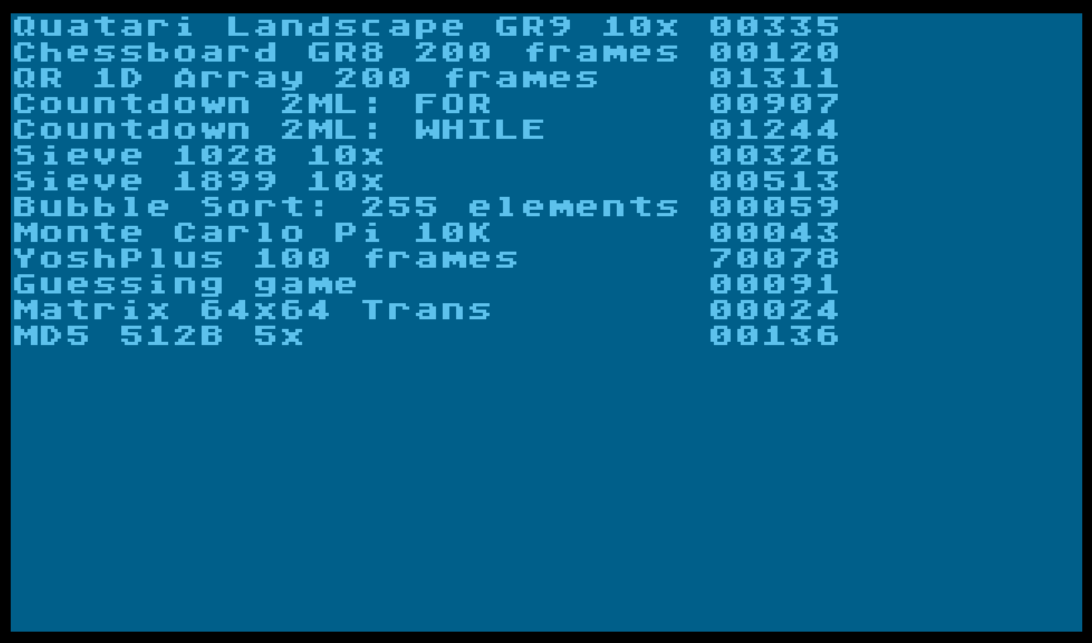
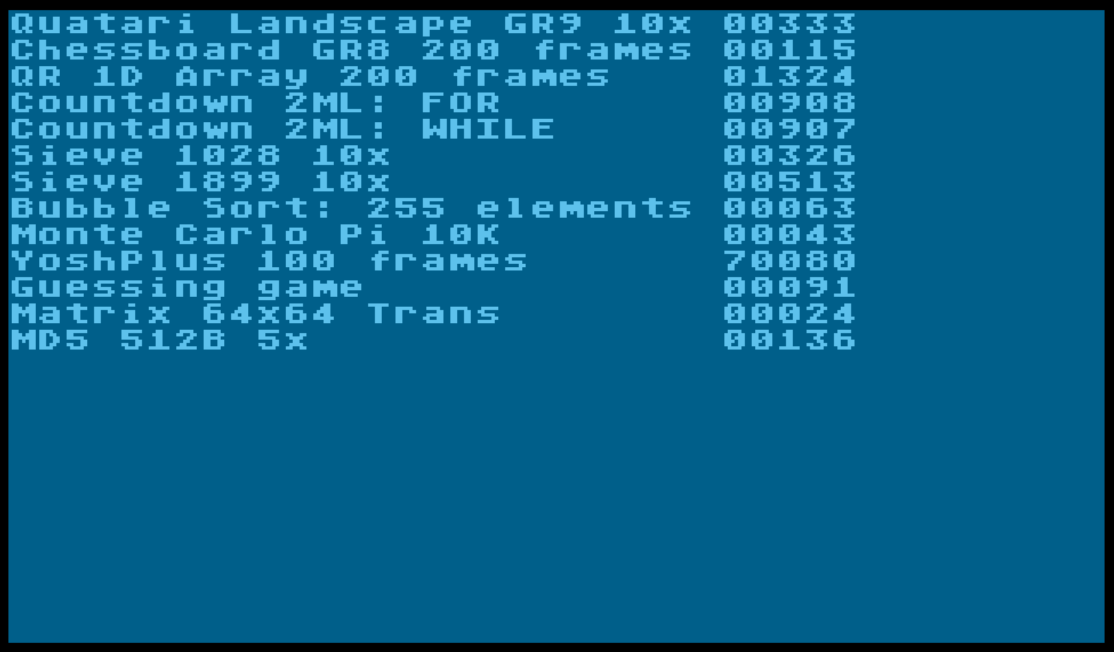
Changed while to do/while which improves the times. maybe unjustly.

Changed region(s): [[0.0, 0.0, 0.9963, 0.5599], [0.0, 0.9642, 0.9963, 0.9953], [0.3425, 0.4666, 0.467, 0.4977]]

diff --git a/src/countdownWhile.c b/src/countdownWhile.c
@@ -16,38 +16,32 @@ void benchmarkCountdownWhile() {
 	char *c7 = counterLms + 0x27;
 
 	*c1 = 1;
-	*c2 = 9;
-	*c3 = 9;
-	*c4 = 9;
-	*c5 = 9;
-	*c6 = 9;
-	*c7 = 9;
-	
-	while (*c1 != 0xff) {
+	do {
 		*c2 = 9;
-		while (*c2 != 0xff) {
+		do {
 			*c3 = 9;
-			while (*c3 != 0xff) {
+			do {
 				*c4 = 9;
-				while (*c4 != 0xff) {
+				do {
 					*c5 = 9;
-					while (*c5 != 0xff) {
+					do {
 						*c6 = 9;
-						while (*c6 != 0xff) {
+						do {
 							*c7 = 9;
-							while (*c7 != 0xff) {
+							do {
 								(*c7)--;
-							}
+							} while (*c7 != 0xff);
 							(*c6)--;
-						}
+						} while (*c6 != 0xff);
 						(*c5)--;
-					}
+					} while (*c5 != 0xff);
 					(*c4)--;
-				}
+				} while (*c4 != 0xff);
 				(*c3)--;
-			}
+			} while (*c3 != 0xff);
 			(*c2)--;
-		}
+		} while (*c2 != 0xff);
 		(*c1)--;
-	}
+	} while (*c1 != 0xff);
+	
 }
